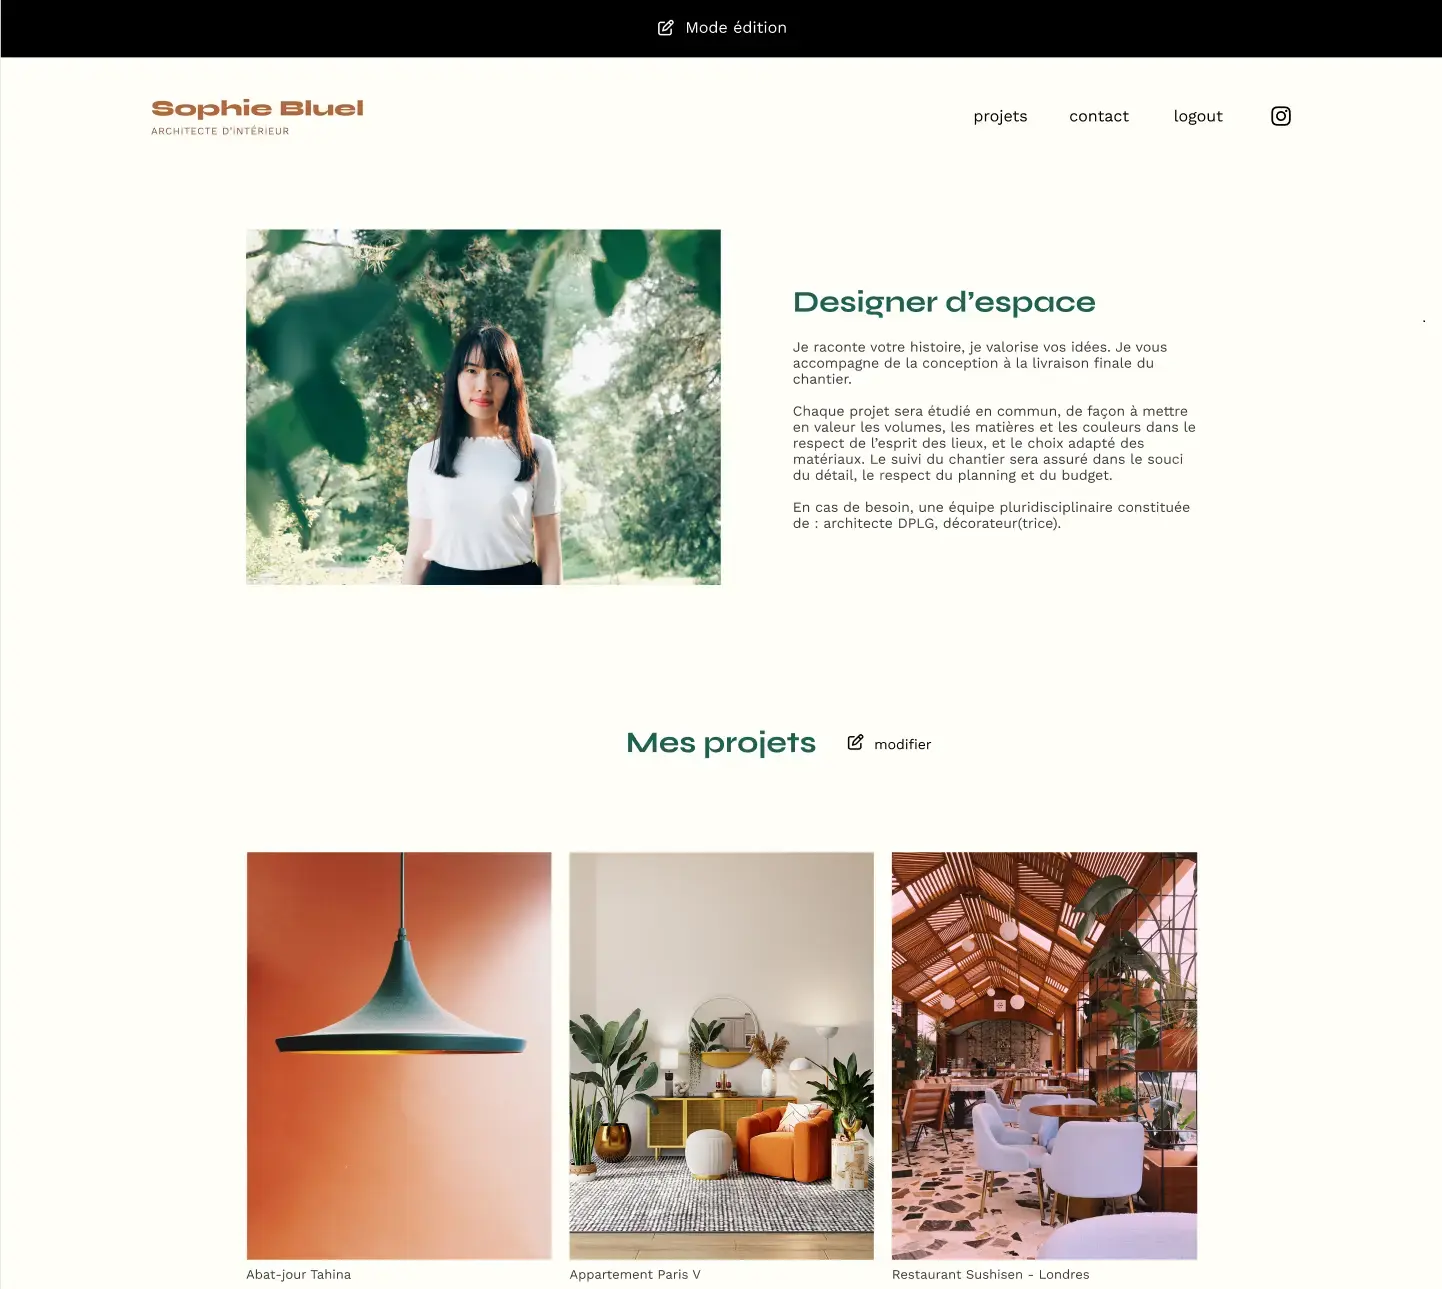
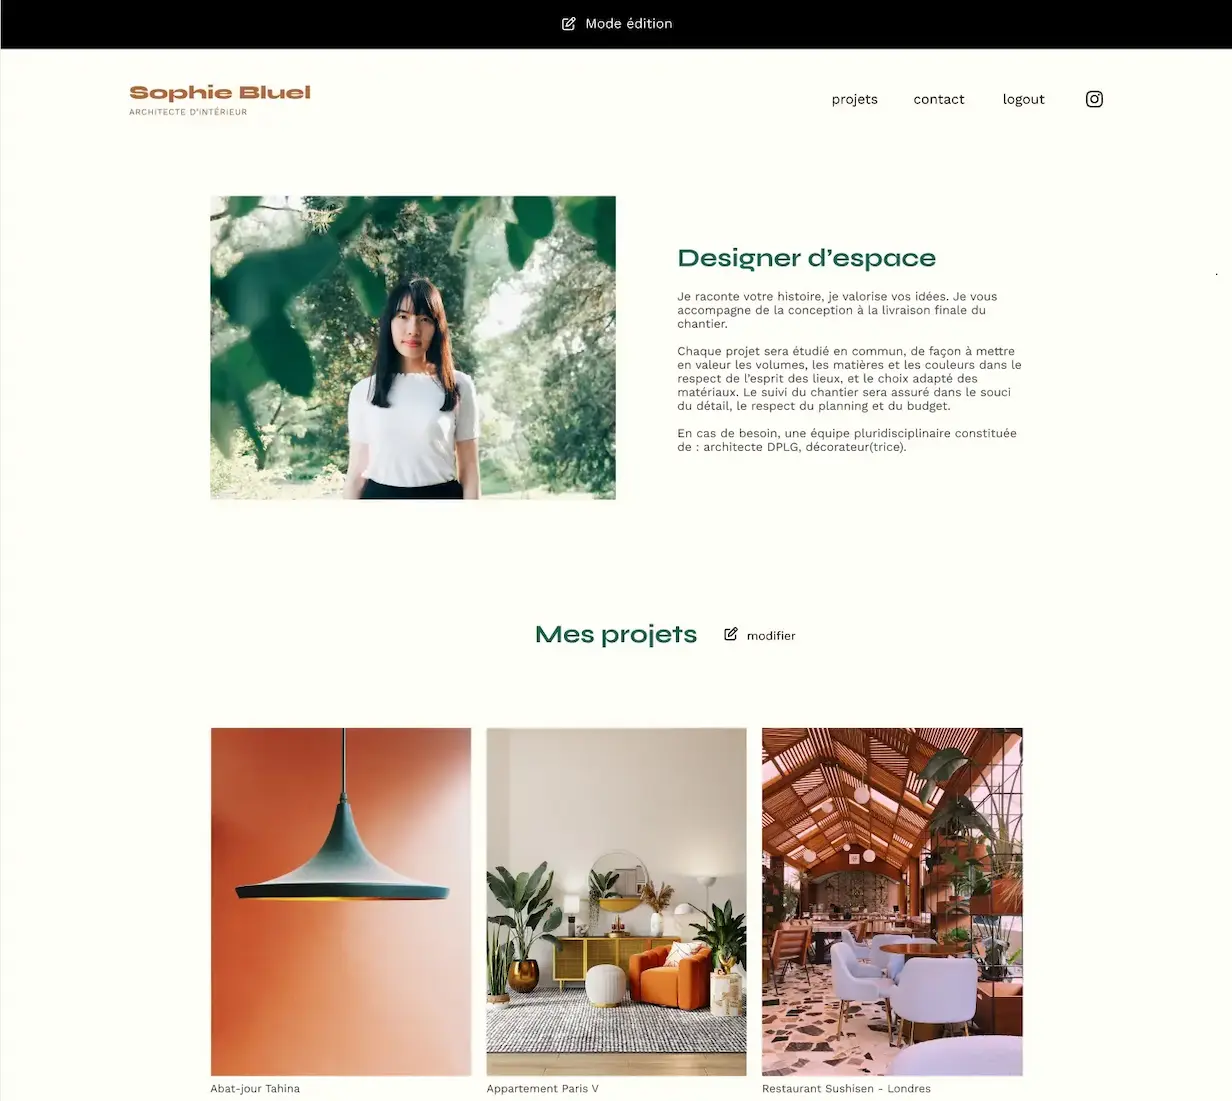
made some scss adjustments and change works container
made some scss adjustments and change works container

diff --git a/src/styles/main.css b/src/styles/main.css
@@ -47,7 +47,6 @@ footer p {
 }
 
 .About {
-  background-color: black;
   padding: 100px 60px 30px 60px;
   color: white;
   display: flex;
@@ -74,11 +73,21 @@ footer p {
   padding-left: 38px;
 }
 
+@media screen and (max-width: 866px) {
+  .About {
+    flex-direction: column;
+  }
+  .About img {
+    padding: 15px 0px;
+  }
+  .About .descriptionServicesContainer {
+    padding-left: 0px;
+  }
+}
 .Skills {
   display: flex;
   flex-direction: column;
   align-items: center;
-  background-color: black;
 }
 .Skills img {
   width: 250px;
@@ -145,17 +154,27 @@ main .separator {
   opacity: 0.8;
 }
 
+@media screen and (max-width: 866px) {
+  .separator {
+    width: 85%; /* Ajustez la largeur pour les écrans plus petits */
+    margin: 60px auto; /* Ajustez la marge pour les écrans plus petits */
+  }
+}
 .Works {
   display: flex;
   flex-direction: column;
   align-items: center;
-  background-color: black;
 }
 .Works img {
   width: 250px;
   margin-bottom: 17px;
 }
 
+@media screen and (max-width: 866px) {
+  .Works {
+    width: 100%;
+  }
+}
 .Contact {
   display: flex;
   flex-direction: column;
@@ -203,18 +222,19 @@ main .separator {
   align-items: center;
   justify-content: center;
   border-radius: 10px;
-  min-width: 680px;
 }
 .carousel-container figure {
   display: flex;
   flex-direction: column;
   align-items: center;
+  width: 100%;
 }
 .carousel-container figure .cards {
-  min-width: 680px;
-  height: 554px;
+  height: auto;
   object-fit: cover;
   border-radius: 10px;
+  width: 100%;
+  max-width: 100%;
 }
 .carousel-container .controlsButton {
   background-color: transparent;
@@ -223,6 +243,7 @@ main .separator {
   font-size: 55px;
   position: relative;
   bottom: 157px;
+  padding: 0px 40px;
   transition: transform 0.3s ease-in-out;
 }
 .carousel-container .controlsButton:hover {
@@ -242,9 +263,26 @@ main .separator {
   display: flex;
   flex-direction: column;
   align-items: center;
+  width: 55%;
+}
+.carousel-container .carousel .figure-container {
+  width: 100%;
+  overflow: hidden;
+  max-height: 675px;
+  align-items: center;
+  border-radius: 20px;
+}
+.carousel-container .carousel img {
+  min-width: 100%;
 }
 .carousel-container .carousel .description {
   text-align: center;
-  width: 700px;
-  height: 107px;
+  width: 70%;
+  height: 100%;
+}
+
+@media screen and (max-width: 866px) {
+  .carousel-container {
+    width: 100%;
+  }
 }/*# sourceMappingURL=main.css.map */

diff --git a/src/components/Carousel/_Carousel.scss b/src/components/Carousel/_Carousel.scss
@@ -4,16 +4,17 @@
     align-items: center;
     justify-content: center;
     border-radius: 10px;
-    min-width: 680px;
     figure {
         display: flex;
         flex-direction: column;
         align-items: center;
+        width: 100%;
         .cards {
-            min-width: 680px;
-            height: 554px;
+            height: auto;
             object-fit: cover;
             border-radius: 10px;
+            width: 100%;
+            max-width: 100%;
         }
     }
     .controlsButton {
@@ -23,6 +24,7 @@
         font-size: 55px;
         position: relative;
         bottom: 157px;
+        padding: 0px 40px;
         transition: transform 0.3s ease-in-out;
     }
     .controlsButton:hover {
@@ -45,11 +47,30 @@
         display: flex;
         flex-direction: column;
         align-items: center;
+        width: 55%;
+
+    .figure-container {
+        width: 100%;
+        overflow: hidden;
+        max-height: 675px;
+        align-items: center;
+        border-radius: 20px;
+    }
+
+    img {
+        min-width: 100%;
+    }
 
     .description {
         text-align: center;
-        width: 700px;
-        height: 107px;
+        width: 70%;
+        height: 100%;
     }
+    }
+}
+
+@media screen and (max-width: 866px) {
+    .carousel-container {
+        width: 100%;
     }
 }

diff --git a/src/components/Carousel/Carousel.js b/src/components/Carousel/Carousel.js
@@ -25,14 +25,14 @@ function Carousel({ cardsData }) {
       <div className="carousel">
         <figure className="figure-container">
           <img className="cards" src={cardsData[currentIndex].img} alt="Card" />
-          <a
-            href={cardsData[currentIndex].githubLink}
-            target="_blank"
-            rel="noopener noreferrer" // pour protéger du phishing (ouvre le lien dans un nouvel onglet sans lien avec la page d'origine)
-          >
-            <img className="githubLogo" src={githubLogo} alt="GitHub" />
-          </a>
         </figure>
+        <a
+          href={cardsData[currentIndex].githubLink}
+          target="_blank"
+          rel="noopener noreferrer" // pour protéger du phishing (ouvre le lien dans un nouvel onglet sans lien avec la page d'origine)
+        >
+          <img className="githubLogo" src={githubLogo} alt="GitHub" />
+        </a>
         <p className="description">{cardsData[currentIndex].description}</p>
       </div>
       <button className="controlsButton" onClick={handleNext}>

diff --git a/src/components/Works/Works.js b/src/components/Works/Works.js
@@ -8,7 +8,8 @@ function Works() {
     {
       img: KasaWork,
       githubLink: "https://github.com/Dagzounet/Project8_Kasa",
-      description: "test",
+      description:
+        "This work was a portfolio made for a fictional character named Sophie Bluel, Here the goal was to learn and use Javascript, making some necessary call to API to connect front-end with back-end, and be able to create the log in webpage with security and token management, retrieve galery works from backend and made edit button and modal to be able to remove or send new works to server from the website when a user administrator is logged",
     },
     {
       img: SophieWork,

diff --git a/src/components/About/_About.scss b/src/components/About/_About.scss
@@ -1,5 +1,4 @@
 .About {
-    background-color: black;
     padding: 100px 60px 30px 60px;
     color: white;
     display: flex;
@@ -23,5 +22,17 @@
     }
     .descriptionServicesContainer {
         padding-left: 38px;
+    }
+}
+
+@media screen and (max-width: 866px) {
+    .About {
+        flex-direction: column;
+        img {
+            padding: 15px 0px;
+        }
+        .descriptionServicesContainer {
+            padding-left: 0px;
+        }
     }
 }

diff --git a/src/pages/Home/_Home.scss b/src/pages/Home/_Home.scss
@@ -11,3 +11,10 @@ main {
         opacity: 0.8; 
       }
 }
+
+@media screen and (max-width: 866px) {
+  .separator {
+    width: 85%; /* Ajustez la largeur pour les écrans plus petits */
+    margin: 60px auto; /* Ajustez la marge pour les écrans plus petits */
+  }
+}

diff --git a/src/components/Works/_Works.scss b/src/components/Works/_Works.scss
@@ -2,9 +2,14 @@
     display: flex;
     flex-direction: column;
     align-items: center;
-    background-color: black;
 img {
     width: 250px;
     margin-bottom: 17px;
 }
+}
+
+@media screen and (max-width: 866px) {
+    .Works {
+        width: 100%;
+    }
 }

diff --git a/src/components/Skills/_Skills.scss b/src/components/Skills/_Skills.scss
@@ -2,7 +2,6 @@
     display: flex;
     flex-direction: column;
     align-items: center;
-    background-color: black;
 img {
     width: 250px;
 }
